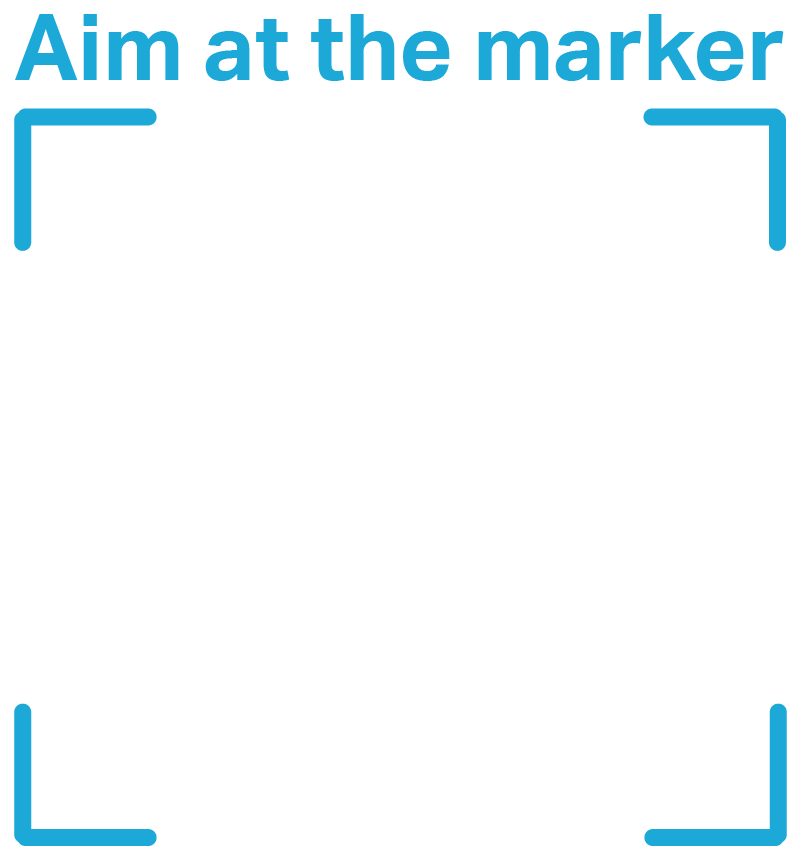
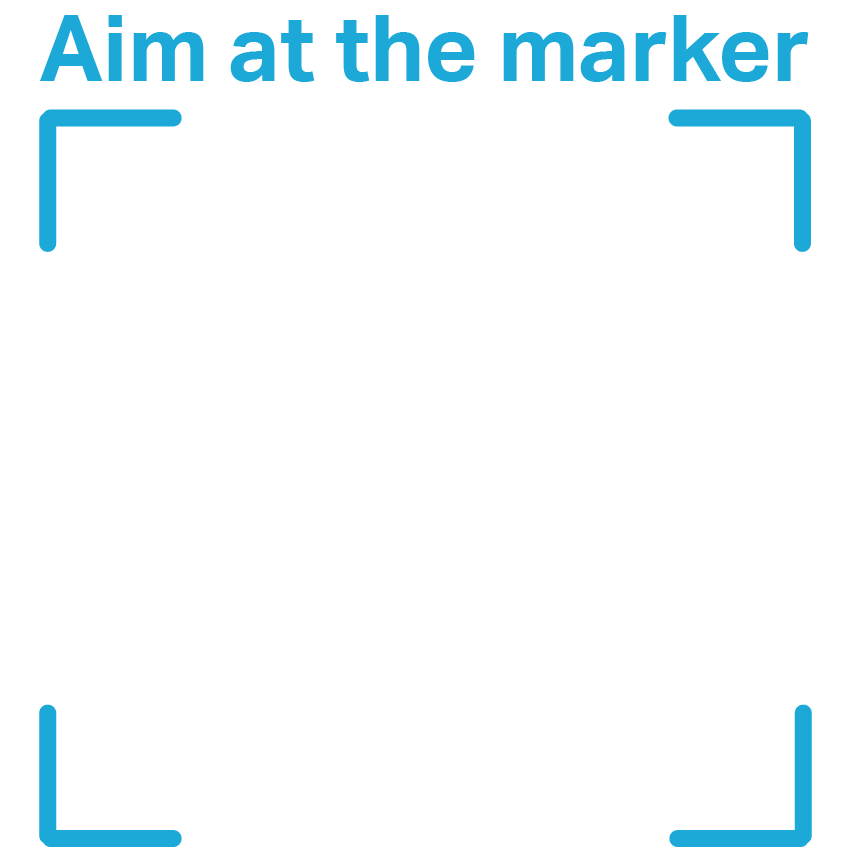
tweak focus

diff --git a/project/book/arc.html b/project/book/arc.html
@@ -30,7 +30,7 @@
         margin-top: -12.5vmin;
         margin-left: -12.5vmin;
         position: absolute;
-        top: 50vh;
+        top: 49vh;
         width: 25vmin;
         z-index: 1;
     }
